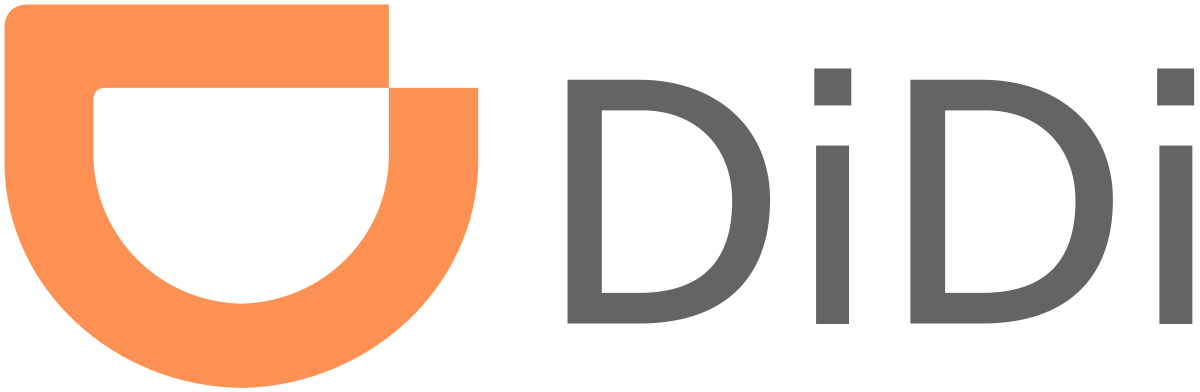
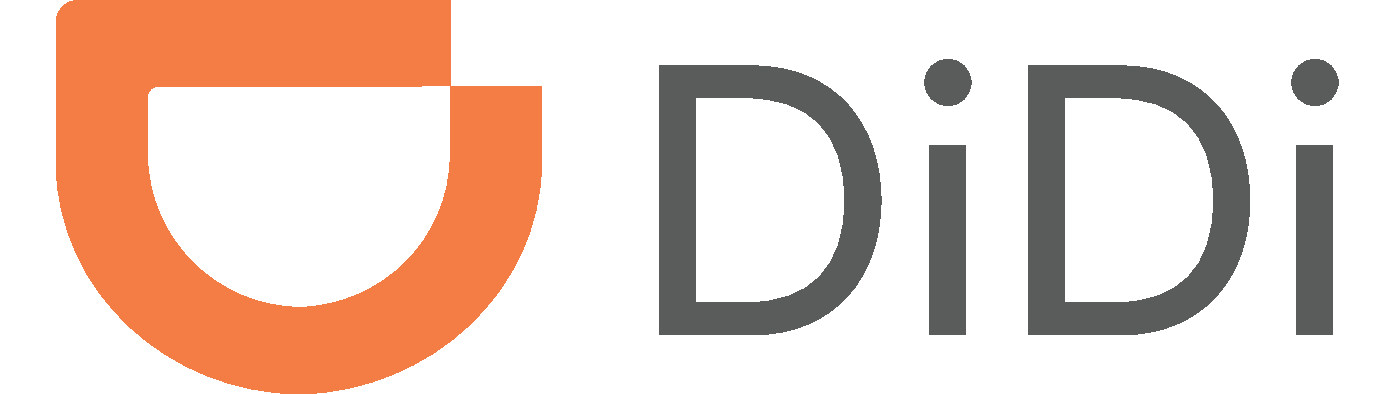
website update

diff --git a/index.html b/index.html
@@ -74,8 +74,8 @@
     
       <li class="nav-item">
         
-        <a href="#challenge" title="Challenge" class="nav-link">
-          Challenge
+        <a href="#challenge" title="Challenges" class="nav-link">
+          Challenges
         </a>
       </li>
     
@@ -162,10 +162,11 @@ transparent {
 <p itemprop="dates-description">
 <hide>&rarr;</hide><transparent><b>Paper submissions due</b>: 17th September 2019 at 23:59 Anywhere on Earth</transparent><br>
 <hide>&rarr;</hide><transparent><b>Author notifications</b>: 1st October 2019</transparent><br>
-&rarr;<b>Camera-ready papers due</b>: 1st December 2019: <b><span id="countdown-dates-call"></span></b><br>
-&rarr;<b>Challenge submission due</b>: 1st December 2019: <b><span id="countdown-dates-challenge"></span></b><br><br>
+&rarr;<b>Didi Challenge submission due</b>: 30th November 2019: <b><span id="countdown-dates-challenge-didi"></span></b><br>
+&rarr;<b>Argo Challenge submission due</b>: 1st December 2019: <b><span id="countdown-dates-challenge-argo"></span></b><br>
+&rarr;<b>Camera-ready papers due</b>: 1st December 2019: <b><span id="countdown-dates-call"></span></b><br><br>
 <hide>&rarr;</hide><b>Date</b>: Saturday 14th December 2019 <br>
-<hide>&rarr;</hide><b>Room</b>: 1, 2, and 3 (East Meeting Level) <br>
+<hide>&rarr;</hide><b>Room</b>: 1, 2, and 3 (East Building, Meeting Level) <br>
 <hide>&rarr;</hide><b>Contact</b>: rmcallister@berkeley.edu<br>
 </p>
 
@@ -210,24 +211,6 @@ transparent {
         <h3 class="speakers-name"><a href="http://www.cs.toronto.edu/~urtasun/" target="_blank" title="Raquel Urtasun"> Raquel Urtasun </a>
         </h3>
         <p class="speakers-bio">Associate Professor, Univ. of Toronto / Chief Scientist at Uber</p>
-      </li>
-    
-      <li class="speakers-item" itemprop="performer" itemscope itemtype="http://schema.org/Person">
-        <span class="speaker-photo">
-          <a href="http://danielarus.csail.mit.edu/" target="_blank"><img class="photo" src="https://ml4ad.github.io/img/daniela.png" alt="Daniela Rus" itemprop="image"></a>
-        </span>
-
-        <h3 class="speech-title">
-          
-          <span class="speech-time">Time (TBD)</span>
-          
-          </br></br>
-          <span>Talk title (TBD)</span>
-        </h3>
-
-        <h3 class="speakers-name"><a href="http://danielarus.csail.mit.edu/" target="_blank" title="Daniela Rus"> Daniela Rus </a>
-        </h3>
-        <p class="speakers-bio">Professor, MIT / Director of Toyota-CSAIL</p>
       </li>
     
       <li class="speakers-item" itemprop="performer" itemscope itemtype="http://schema.org/Person">
@@ -459,23 +442,6 @@ References and appendix should be appended into the same (single) PDF document, 
         
       
         
-          <tr>
-            <td class="schedule-time">Time (TBD)</td>
-            <td class="schedule-slot">
-            
-              <span class="speaker-photo">
-                <img class="photo" src="https://ml4ad.github.io/img/daniela.png" alt="Daniela Rus">
-              </span>
-            
-
-              Talk title (TBD)
-              <span class="speakers-company">MIT / Toyota-CSAIL</span>
-            </td>
-            <td class="schedule-description"></td>
-          </tr>
-        
-      
-        
           <tr class="schedule-other">
             <td class="schedule-time">Time (TBD)</td>
             <td class="schedule-slot">Lunch</td>
@@ -625,22 +591,43 @@ References and appendix should be appended into the same (single) PDF document, 
           </section>
         
           <section class="challenge" id="challenge">
-            <h2 class="section-title">Challenge</h2>
+            <h2 class="section-title">Challenges</h2>
 
 
+
+<p>
+<b>Argo Challenges:</b>
+</p>
 
 <p>
 We are hosting the first <a href="https://www.argoverse.org/" target="_blank">Argoverse</a> competitions for <a href="https://evalai.cloudcv.org/web/challenges/challenge-page/453/overview" target="_blank">3d tracking</a> and <a href="https://evalai.cloudcv.org/web/challenges/challenge-page/454/overview" target="_blank">motion forecasting</a>. The prize pool is $5,000 and winners will be invited to intern at Argo and present their methods at the workshop. More details can be found <a href="https://www.argo.ai/2019/10/join-the-competition-argoverse-leaderboards-are-live/" target="_blank">here</a>.
 </p>
 
 <p>
-Open for submissions through: 1st December 2019: <b><span id="countdown-challenge"></span></b><br>
+Open for submissions through: 1st December 2019: <b><span id="countdown-challenge-argo"></span></b><br><br>
 </p>
+
+<p>
+<b>Didi Challenge:</b>
+</p>
+
+<p>
+We are also hosting the D²-City <a href="https://outreach.didichuxing.com/d2city/challenge" target="_blank">Detection Domain Adaptation Challenge</a>, a transfer learning challenge for object detection. The prize pool is $1,700 and winners will be invited to present their methods at the workshop.
+</p>
+
+
+
+<p>
+Open for submissions through: 30th November 2019: <b><span id="countdown-challenge-didi"></span></b>
+</p>
+
 
 <script>
   
-  var countDownDate = new Date("Dec 01, 2019 23:59:59 UTC").getTime();  
-  countDownDate = countDownDate + 1000 * 3600 * 12 
+  var countDownDate1 = new Date("Dec 01, 2019 23:59:59 UTC").getTime();  
+  var countDownDate2 = new Date("Nov 30, 2019 23:59:59 UTC").getTime();  
+  countDownDate1 = countDownDate1 + 1000 * 3600 * 12 
+  countDownDate2 = countDownDate2 + 1000 * 3600 * 12 
 
   
   var x = setInterval(function() {
@@ -649,26 +636,47 @@ Open for submissions through: 1st December 2019: <b><span id="countdown-challeng
     var now = new Date().getTime();
 
     
-    var distance = countDownDate - now;
+    var distance1 = countDownDate1 - now;
+    var distance2 = countDownDate2 - now;
 
     
-    var days = Math.floor(distance / (1000 * 60 * 60 * 24));
-    var hours = Math.floor((distance % (1000 * 60 * 60 * 24)) / (1000 * 60 * 60));
-    var minutes = Math.floor((distance % (1000 * 60 * 60)) / (1000 * 60));
-    var seconds = Math.floor((distance % (1000 * 60)) / 1000);
+    var days = Math.floor(distance1 / (1000 * 60 * 60 * 24));
+    var hours = Math.floor((distance1 % (1000 * 60 * 60 * 24)) / (1000 * 60 * 60));
+    var minutes = Math.floor((distance1 % (1000 * 60 * 60)) / (1000 * 60));
+    var seconds = Math.floor((distance1 % (1000 * 60)) / 1000);
 
     
-    var countdown = days + "d " + hours + "h " + minutes + "m " + seconds + "s ";
+    var countdown1 = days + "d " + hours + "h " + minutes + "m " + seconds + "s ";
 
     
-    if (distance < 0) {
+    if (distance1 < 0) {
       clearInterval(x);
-      countdown = "Closing soon, upload now!";  
+      countdown1 = "Closing...upload now!";  
     }
 
-    document.getElementById("countdown-dates-call").innerHTML = countdown
-    document.getElementById("countdown-dates-challenge").innerHTML = countdown
-    document.getElementById("countdown-challenge").innerHTML = countdown
+    document.getElementById("countdown-dates-call").innerHTML = countdown1
+    document.getElementById("countdown-dates-challenge-argo").innerHTML = countdown1
+    document.getElementById("countdown-challenge-argo").innerHTML = countdown1
+
+
+    
+    var days = Math.floor(distance2 / (1000 * 60 * 60 * 24));
+    var hours = Math.floor((distance2 % (1000 * 60 * 60 * 24)) / (1000 * 60 * 60));
+    var minutes = Math.floor((distance2 % (1000 * 60 * 60)) / (1000 * 60));
+    var seconds = Math.floor((distance2 % (1000 * 60)) / 1000);
+
+    
+    var countdown2 = days + "d " + hours + "h " + minutes + "m " + seconds + "s ";
+
+    
+    if (distance2 < 0) {
+      clearInterval(x);
+      countdown2 = "Closing...upload now!";  
+    }
+
+    document.getElementById("countdown-dates-challenge-didi").innerHTML = countdown2
+    document.getElementById("countdown-challenge-didi").innerHTML = countdown2
+
   }, 1000);
 </script>
 
@@ -688,6 +696,12 @@ Open for submissions through: 1st December 2019: <b><span id="countdown-challeng
   <li class="sponsor-item" itemscope itemtype="http://schema.org/Organization">
     <a href="https://www.argo.ai/" class="sponsor--link" itemprop="url" target="_blank">
       <img src="https://ml4ad.github.io/img/argo.jpg" alt="ArgoAI" class="photo" itemprop="image">
+    </a>
+  </li>
+
+  <li class="sponsor-item" itemscope itemtype="http://schema.org/Organization">
+    <a href="https://www.didiglobal.com/" class="sponsor--link" itemprop="url" target="_blank">
+      <img src="https://ml4ad.github.io/img/didi.png" alt="DiDi" class="photo" itemprop="image">
     </a>
   </li>
 
@@ -1102,9 +1116,11 @@ Open for submissions through: 1st December 2019: <b><span id="countdown-challeng
 
 
 
-<p>Rooms 1,2,3 (East Meeting Level) in the <a href="https://www.google.com/maps/place/Vancouver+Convention+Centre+East/@49.2881789,-123.1146601,17z/data=!3m2!4b1!5s0x5486719d2fa2d817:0x8744a3435e0647f2!4m5!3m4!1s0x548671836a6e5787:0xd3c5f7bc5d72768d!8m2!3d49.2881789!4d-123.1124661" target="_blank">Vancouver Convention Center</a>, 999 Canada Pl, Vancouver, BC V6C 3C1, Canada</p>
+<p><a href="https://www.vancouverconventioncentre.com/facility/floor-plans-and-specs#east-meeting-room-1_east-meeting-room-2_east-meeting-room-3" target="_blank">East Meeting Room 1,2,3</a> in the <a href="https://goo.gl/maps/twRwYneq5Vhca6xt8" target="_blank">Vancouver Convention Center</a>, 999 Canada Pl, Vancouver, BC V6C 3C1, Canada</p>
 
-<iframe src="https://www.google.com/maps/embed?pb=!1m18!1m12!1m3!1d2602.3818684391404!2d-123.11367304708253!3d49.28810892060149!2m3!1f0!2f0!3f0!3m2!1i1024!2i768!4f13.1!3m3!1m2!1s0x0%3A0xd3c5f7bc5d72768d!2sVancouver+Convention+Centre+East!5e0!3m2!1sen!2sus!4v1560225344726!5m2!1sen!2sus" width="600" height="450" frameborder="0" style="border:0" allowfullscreen></iframe>
+<iframe src="https://www.google.com/maps/embed?pb=!1m18!1m12!1m3!1d2602.3438979436005!2d-123.11331494818172!3d49.28882827815389!2m3!1f0!2f0!3f0!3m2!1i1024!2i768!4f13.1!3m3!1m2!1s0x5486719d24e2e021%3A0xb7057fe085c86109!2sCanada%20Place!5e0!3m2!1sen!2sus!4v1571888458545!5m2!1sen!2sus" width="600" height="450" frameborder="0" style="border:0;" allowfullscreen=""></iframe>
+
+<p><br><img src="https://ml4ad.github.io/img/room.png" width="600"></p>
 
           </section>
         
